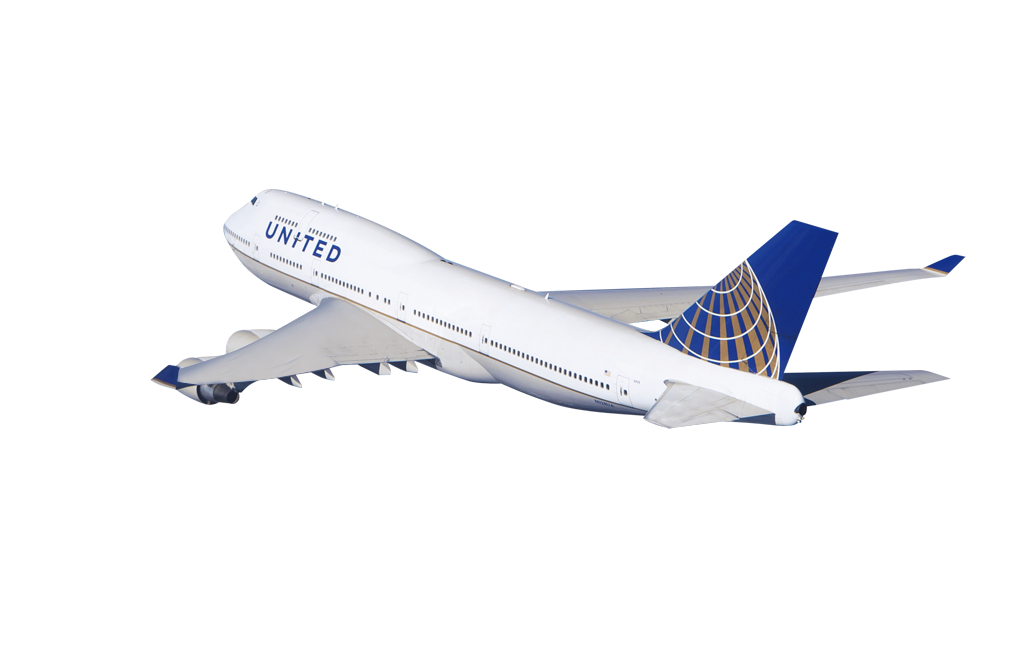
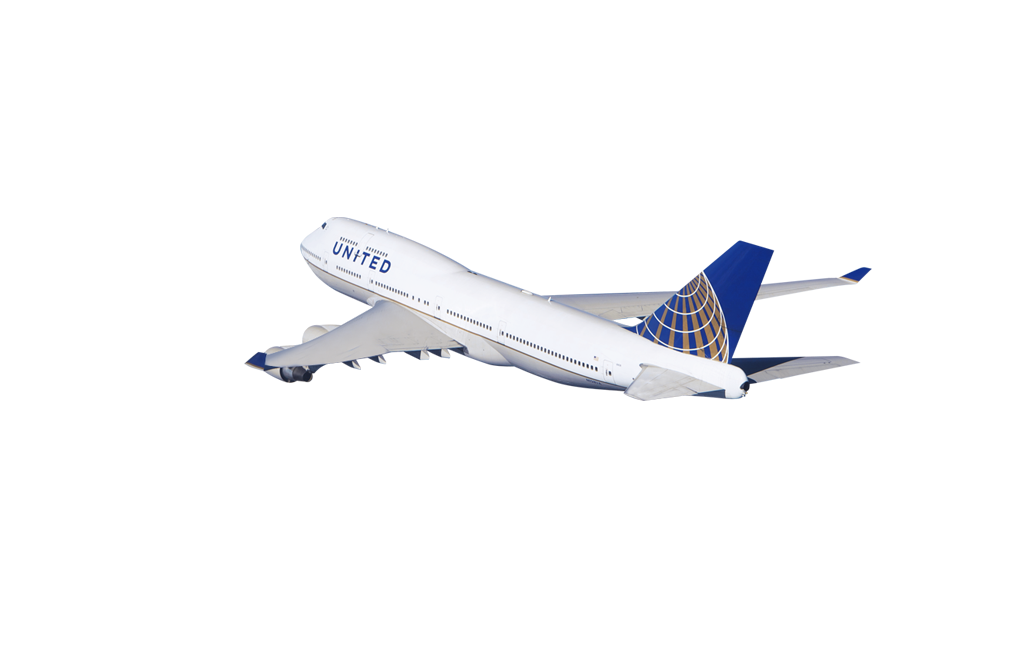
IE fixes
PLane image home

Changed region(s): [[0.1562, 0.2769, 0.9375, 0.6769], [0.4062, 0.3692, 0.5, 0.4308]]

diff --git a/drupal7/sites/all/themes/united_subtheme2/css/united_subtheme2_style.css b/drupal7/sites/all/themes/united_subtheme2/css/united_subtheme2_style.css
@@ -256,8 +256,7 @@ border: none;
 	z-index: 1;
 	width:100%;
     /* The url is relative to the document, not to the css file! */
-    /* Prefer absolute urls to avoid confusion. */
-   
+    /* Prefer absolute urls to avoid confusion. */   
     -ms-behavior: url('http://54.227.239.49/sites/all/themes/united_subtheme2/css/backgroundsize.min.htc');
 
 	}
@@ -268,14 +267,13 @@ background: url(../images/homepage_image/747-silo.png) no-repeat;
 -moz-background-size: cover;
 -o-background-size: cover;
 background-size: cover;
-height: 23%;
+height: 40%;
 top: 68px;
 position: absolute;
 z-index: -1;
-width: 22%;
+width: 30%;
 -ms-behavior: url('http://54.227.239.49/sites/all/themes/united_subtheme2/css/backgroundsize.min.htc');
-right: 17px;
-
+right: 3px;
 }
 #landing-wrap{
 	background:url(../images/landing_page_Image/Clouds%20bkg.jpg) no-repeat;
@@ -384,11 +382,9 @@ margin: 0;
 	height: 130px;
 	background-repeat: no-repeat;
 }
-
 #block-panels-mini-home-blocks .pane-views.white-text:hover, #aircraft_landing_menu a li:hover{
 	background-color: #edb72b;
 }
-
 #block-panels-mini-home-blocks .white-text .views-field-name span{
 	margin: 10px 12px;
 	font-weight: 300;
@@ -397,8 +393,10 @@ margin: 0;
 }
 #block-panels-mini-home-blocks .dark-text .views-field-name span{ /* Body type headers */
 	font-weight: 500;
-	font-size: 22px;
-	text-align: left;}
+	font-size: 18px;
+	text-align: left;
+	line-height: 20px;
+	}
 
 #block-panels-mini-home-blocks .dark-text .views-field-field-fleet-count div {
 	margin-top: 0px;
@@ -406,7 +404,9 @@ margin: 0;
 	vertical-align: top;
 	position: relative;
 	top: -13px;
-	font-size: 15px;
+	font-size: 12px;
+line-height: 17px;
+
 }
 #block-panels-mini-home-blocks span.views-field-name{ /* table grid cells header titles*/
 	text-align: left;
@@ -2423,5 +2423,21 @@ width: 100%;
 	top:44px !important;
 }
 .lt-ie9 #fleet_total_top{
-	top:90px;
+	top:109px;
+}
+.lt-ie9 .view-id-features_food_bev_food table li{
+	vertical-align: top;
+	height: 12px;
+	margin:0px;
+	padding:0px;
+}
+.lt-ie9 .view-id-features_food_bev_food span{
+	vertical-align: top;
+	height: 12px;
+	margin:0px;
+	padding:0px;
+
+}
+.lt-ie9 #home-wrap img{
+	top:0px;
 }
